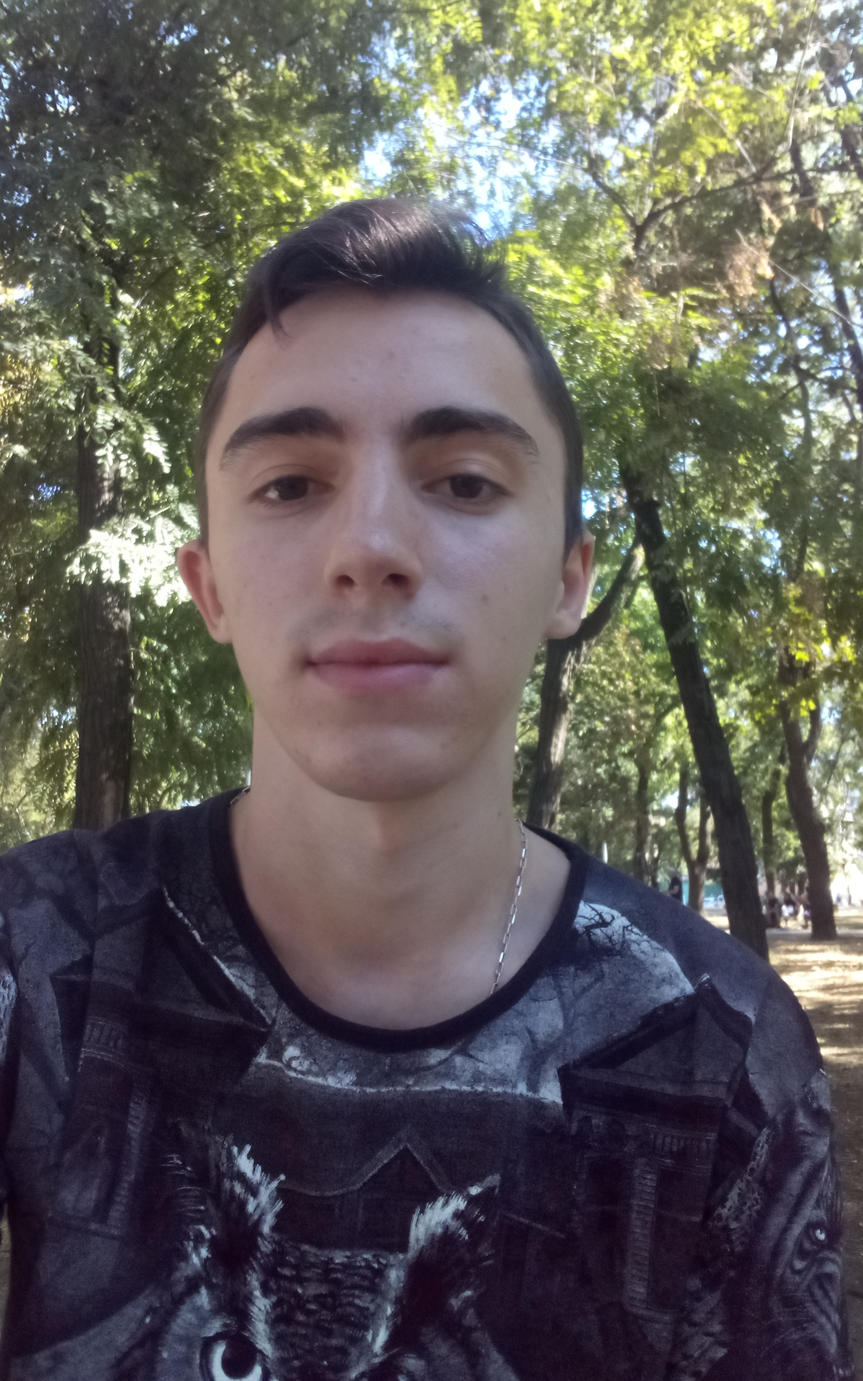
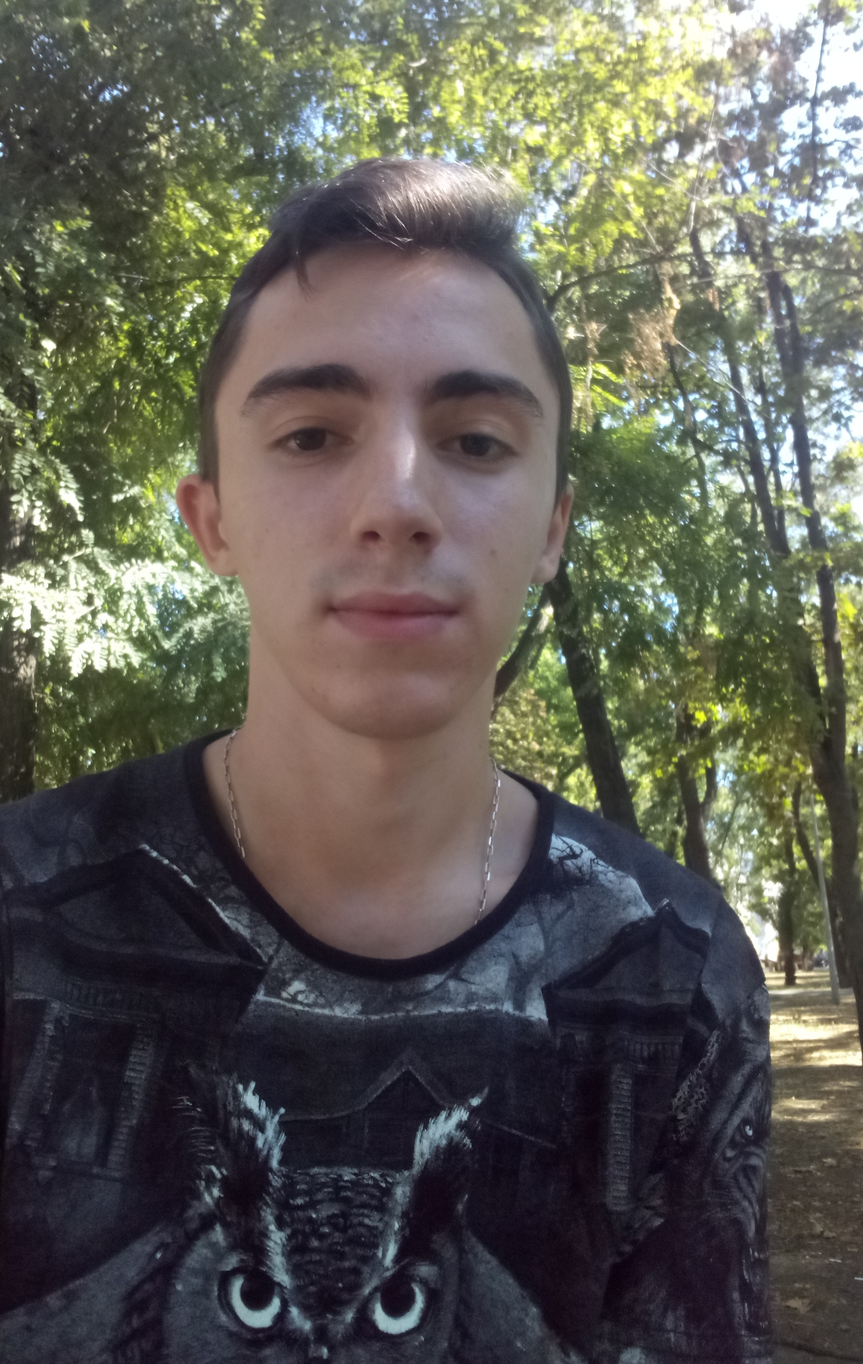
fix about me

diff --git a/dist/css/main.min.css b/dist/css/main.min.css
@@ -1,1 +1,1 @@
-/*! normalize.css v8.0.1 | MIT License | github.com/necolas/normalize.css */html{line-height:1.15;-webkit-text-size-adjust:100%}body{margin:0}main{display:block}h1{font-size:2em;margin:.67em 0}hr{box-sizing:content-box;height:0;overflow:visible}pre{font-family:monospace,monospace;font-size:1em}a{background-color:transparent}abbr[title]{border-bottom:none;text-decoration:underline;-webkit-text-decoration:underline dotted;text-decoration:underline dotted}b,strong{font-weight:bolder}code,kbd,samp{font-family:monospace,monospace;font-size:1em}small{font-size:80%}sub,sup{font-size:75%;line-height:0;position:relative;vertical-align:baseline}sub{bottom:-.25em}sup{top:-.5em}img{border-style:none}button,input,optgroup,select,textarea{font-family:inherit;font-size:100%;line-height:1.15;margin:0}button,input{overflow:visible}button,select{text-transform:none}[type=button],[type=reset],[type=submit],button{-webkit-appearance:button}[type=button]::-moz-focus-inner,[type=reset]::-moz-focus-inner,[type=submit]::-moz-focus-inner,button::-moz-focus-inner{border-style:none;padding:0}[type=button]:-moz-focusring,[type=reset]:-moz-focusring,[type=submit]:-moz-focusring,button:-moz-focusring{outline:1px dotted ButtonText}fieldset{padding:.35em .75em .625em}legend{box-sizing:border-box;color:inherit;display:table;max-width:100%;padding:0;white-space:normal}progress{vertical-align:baseline}textarea{overflow:auto}[type=checkbox],[type=radio]{box-sizing:border-box;padding:0}[type=number]::-webkit-inner-spin-button,[type=number]::-webkit-outer-spin-button{height:auto}[type=search]{-webkit-appearance:textfield;outline-offset:-2px}[type=search]::-webkit-search-decoration{-webkit-appearance:none}::-webkit-file-upload-button{-webkit-appearance:button;font:inherit}details{display:block}summary{display:list-item}template{display:none}[hidden]{display:none}@font-face{font-family:PtSans;font-display:swap;src:local("PtSans-400"),url(../fonts/ptsans.woff2) format("woff2"),url(../fonts/ptsans.woff) format("woff");font-weight:400;font-style:normal}@font-face{font-family:PtSans;font-display:swap;src:local("PtSans-700"),url(../fonts/ptsansbold.woff2) format("woff2"),url(../fonts/ptsansbold.woff) format("woff");font-weight:700;font-style:normal}*{font-family:Dosis,sans-serif;margin:0;padding:0}.container{max-width:1200px;margin:0 auto;padding:0 20px}li{list-style-type:none}.wrap-main{background:#fff}.header{height:100vh;background:url(../img/cover.jpg);background-size:cover;background-attachment:fixed;position:relative}.header__overlay{background-color:rgba(44,62,80,.3);background-image:url(../img/pattern.png);background-repeat:repeat;height:100%;left:0;position:absolute;top:0;width:100%;z-index:0}.header__top{display:flex;justify-content:space-between;align-items:center;width:100%;padding:10px 0}.header__logo{max-width:100px}.header__logo img{width:100%}.header__nav{display:flex}.header__nav li{padding:0 10px}.header__nav a{font-family:Poppins,sans-serif;font-size:14px;position:relative;display:block;cursor:pointer;padding:8px 0;color:#fff;text-decoration:none;text-transform:uppercase;transition:.3s}.header__nav a:hover{color:#000}.header__nav a:before{content:'';width:0%;height:2px;bottom:-2px;background:#000;left:0}.header__nav a:hover::before{position:absolute;content:"";display:block;margin:0 auto;width:100%;height:2px;background-color:#000;transition:opacity .3s ease,width .3s ease;right:0;left:0;pointer-events:none}.header__nav a::after{position:absolute;content:"";display:block;margin:0 auto;width:0;height:2px;background-color:#000;transition:opacity .3s ease,width .3s ease;right:0;left:0;pointer-events:none;margin-top:8px}.header__nav a:hover::after{background:0 0;width:100%;transition:0s}.header__btn{display:none}.header #header__toggle{display:none}.header__main{text-align:center;color:#fff;position:absolute;top:50%;left:50%;transform:translate(-50%,-50%)}.header__main p{font-size:18px;text-align:center;margin:15px 0}.header__text-typing{font-size:45px;font-weight:800;text-align:center;text-transform:uppercase}.header__button{display:flex;justify-content:center;align-items:center;color:#fff;text-decoration:none;width:50px;height:50px;border:1px #fff solid;border-radius:100%;position:absolute;left:50%;bottom:25px;transform:translateX(-50%);cursor:pointer}.about{margin-top:50px}.about__title{font-size:35px;font-weight:800;color:#000}.about__text{font-size:18px;color:#777;line-height:30px}.about__container{display:flex}.about__info{width:100%;display:flex;flex-direction:column}.about__photo{padding:10px;border:1px solid #b4b4b4;overflow:hidden}.about__photo img{width:100%}.about__descr{font-size:15px;color:#777;line-height:30px;font-family:Montserrat,sans-serif;font-weight:300;width:100%;margin-right:30px}.about__list{margin-top:50px;border:1px solid #e0e0e0;border-radius:3px}.about__list li{font-size:16px;color:#333;padding:20px 20px;border-bottom:1px solid #e0e0e0}.about__list span{display:inline-block;min-width:125px}.skills{margin-top:50px;background-color:#f5f4fb}.skills__title{font-size:35px;font-weight:800;text-transform:uppercase;text-align:center;padding-top:25px}.skills__sub-title{display:block;font-size:18px;color:#929292;text-align:center;padding-top:10px}.skills__info{display:flex;margin-top:50px}.skills__items{width:100%}.skills__item{display:flex;margin-bottom:50px;padding-right:5rem}.skills__text h3{font-size:1.25rem;font-weight:700;color:#484848}.skills__text p{font-size:14px;color:#767196;margin-top:10px}.skills .fa{width:100px;font-size:50px;color:#484848}.skills__progress{width:100%}.skills__lang{display:flex;justify-content:center;align-items:center;font-size:12px;font-weight:700;text-transform:uppercase;color:#fff;letter-spacing:2px;height:100%;width:20%;background-color:rgba(0,0,0,.178);position:absolute}.skills__procent{font-size:11px;color:rgba(0,0,0,.4);position:absolute;top:50%;right:10px;transform:translateY(-50%)}#bar{width:100%;height:30px;margin-bottom:10px;background-color:#fff;border-radius:3px;position:relative}#html{height:100%;width:20%;background:#e67e22;border-radius:3px;transition:3s}#css{height:100%;width:20%;background:#3498db;border-radius:3px;transition:3s}#jquery{height:100%;width:20%;background-color:green;border-radius:3px;transition:3s}#photoshop{height:100%;width:20%;background:#4288d0;border-radius:3px;transition:3s}.portfolio{padding:50px 0;background-color:#fff}.portfolio__title{font-size:30px;text-align:center;text-transform:uppercase}.portfolio__sub-title{display:block;font-size:16px;text-align:center;color:#929292;margin-top:10px}.portfolio__galery{display:flex;justify-content:center;flex-wrap:wrap;margin-top:50px}.portfolio__wrap-item{width:350px;height:350px;margin:25px 5px 0;border:1px #b4b4b4 solid;overflow:hidden}.portfolio__item{width:100%;height:100%;transition:.3s;position:relative;box-sizing:border-box}.portfolio__item img{width:100%;min-height:100%}.portfolio__item:hover .portfolio__descr-wrap{display:block;width:100%;height:100%;background:rgba(15,15,15,.753);position:absolute;top:0;transition:.5s}.portfolio__item:hover .portfolio__galery-descr{display:flex;justify-content:center;align-items:center;font-size:20px;text-transform:uppercase;font-weight:700;color:#fff;width:80%;height:80%;position:absolute;top:50%;left:50%;transform:translate(-50%,-50%);box-sizing:border-box}.portfolio__item:hover .portfolio__galery-descr::after,.portfolio__item:hover .portfolio__galery-descr::before{box-sizing:inherit;content:'';position:absolute;width:100%;height:100%}.portfolio__item:hover .portfolio__galery-descr::after,.portfolio__item:hover .portfolio__galery-descr::before{top:0;left:0;height:100%;width:100%;transform-origin:center}.portfolio__item:hover .portfolio__galery-descr::before{border-top:2px solid #fff;border-bottom:2px solid #fff;transform:scale3d(0,1,1)}.portfolio__item:hover .portfolio__galery-descr::after{border-left:2px solid #fff;border-right:2px solid #fff;transform:scale3d(1,0,1)}.portfolio__item:hover .portfolio__galery-descr:hover::after,.portfolio__item:hover .portfolio__galery-descr:hover::before{transform:scale3d(1,1,1);transition:transform .5s}.contacts{margin-bottom:50px}.contacts__wrap{display:flex;justify-content:space-between;width:100%;padding-top:50px}.contacts__item{text-align:center;color:#333;width:100%;margin:0 15px;padding:20px;box-shadow:0 20px 40px rgba(0,0,0,.2)}.contacts__item .fa{font-size:25px;color:#e91e63}.contacts__item p{font-weight:300;margin-top:25px}.contacts__item span{display:block;font-size:16px;font-weight:500;text-transform:uppercase;margin-bottom:10px}.contacts__link{text-decoration:none;color:#000}.contacts__link:hover{text-decoration:underline}.footer{background-color:#263238;padding:50px 0}.footer__networks{display:flex;justify-content:center}.footer__networks li{width:35px;height:35px;margin:0 5px;border:1px solid;border-color:rgba(255,255,255,.2);border-radius:3px;transition:.3s}.footer__networks li:hover{border-color:#fff}.footer__networks a{display:flex;justify-content:center;align-items:center;width:35px;height:35px;opacity:.5;text-decoration:none;transition:.3s}.footer__networks a:hover{opacity:1}.footer__networks img{width:50%}.footer p{font-size:14px;text-align:center;color:#fff;margin-top:20px}@media (max-width:992px){.about__container{flex-direction:column-reverse}.contacts__wrap{justify-content:space-around;flex-wrap:wrap}.contacts__item{width:35%;margin-bottom:30px}.skills__lang{font-size:10px}}@media (max-width:768px){.header__top{justify-content:center;padding:0;position:absolute;z-index:1}.header nav{width:100%;margin-top:-100%}.header__logo{display:none}.header__nav{flex-direction:column;align-items:center;transition:.3s;visibility:hidden}.header__nav a{font-size:25px;margin-top:20px}.header__box{transition-duration:.25s}.header__item{transition-duration:.25s}.header__btn{display:flex;align-items:center;position:absolute;top:20px;right:20px;width:26px;height:26px;cursor:pointer;z-index:1}.header__btn>span,.header__btn>span::after,.header__btn>span::before{display:block;position:absolute;width:100%;height:2px;background-color:#616161;transition-duration:.25s}.header__btn>span::before{content:'';top:-8px}.header__btn>span::after{content:'';top:8px}#header__toggle:checked~.header__btn>span{transform:rotate(45deg)}#header__toggle:checked~.header__btn>span::before{top:0;transform:rotate(0)}#header__toggle:checked~.header__btn>span::after{top:0;transform:rotate(90deg)}#header__toggle:checked~.header__nav{display:flex;justify-content:center;height:100vh;margin-top:100%;background-color:rgba(46,46,46,.959);visibility:visible}.skills{padding-bottom:50px}.skills__info{flex-direction:column}.skills__item{flex-direction:column;align-items:center;text-align:center;padding:0}.skills__item .fa{margin-bottom:20px}}@media (max-width:576px){.contacts__wrap{flex-direction:column;align-items:center}.contacts__item{width:80%;margin-bottom:30px}}#loader,#loader:after,#loader:before{border-radius:50%;width:2.5em;height:2.6em;-webkit-animation-fill-mode:both;animation-fill-mode:both;-webkit-animation:load7 1.8s infinite ease-in-out;animation:load7 1.8s infinite ease-in-out}#loader{color:#fff;font-size:8px;position:absolute;text-indent:-9999em;transform:translateZ(0);-webkit-animation-delay:-.16s;animation-delay:-.16s;top:50%;left:50%;transform:translate(-50%,-50%)}#loader:after,#loader:before{content:'';position:absolute;top:0}#loader:before{left:-3.5em;-webkit-animation-delay:-.32s;animation-delay:-.32s}#loader:after{left:3.5em}@-webkit-keyframes load7{0%,100%,80%{box-shadow:0 2.5em 0 -1.3em}40%{box-shadow:0 2.5em 0 0}}@keyframes load7{0%,100%,80%{box-shadow:0 2.5em 0 -1.3em}40%{box-shadow:0 2.5em 0 0}}
+/*! normalize.css v8.0.1 | MIT License | github.com/necolas/normalize.css */html{line-height:1.15;-webkit-text-size-adjust:100%}body{margin:0}main{display:block}h1{font-size:2em;margin:.67em 0}hr{box-sizing:content-box;height:0;overflow:visible}pre{font-family:monospace,monospace;font-size:1em}a{background-color:transparent}abbr[title]{border-bottom:none;text-decoration:underline;-webkit-text-decoration:underline dotted;text-decoration:underline dotted}b,strong{font-weight:bolder}code,kbd,samp{font-family:monospace,monospace;font-size:1em}small{font-size:80%}sub,sup{font-size:75%;line-height:0;position:relative;vertical-align:baseline}sub{bottom:-.25em}sup{top:-.5em}img{border-style:none}button,input,optgroup,select,textarea{font-family:inherit;font-size:100%;line-height:1.15;margin:0}button,input{overflow:visible}button,select{text-transform:none}[type=button],[type=reset],[type=submit],button{-webkit-appearance:button}[type=button]::-moz-focus-inner,[type=reset]::-moz-focus-inner,[type=submit]::-moz-focus-inner,button::-moz-focus-inner{border-style:none;padding:0}[type=button]:-moz-focusring,[type=reset]:-moz-focusring,[type=submit]:-moz-focusring,button:-moz-focusring{outline:1px dotted ButtonText}fieldset{padding:.35em .75em .625em}legend{box-sizing:border-box;color:inherit;display:table;max-width:100%;padding:0;white-space:normal}progress{vertical-align:baseline}textarea{overflow:auto}[type=checkbox],[type=radio]{box-sizing:border-box;padding:0}[type=number]::-webkit-inner-spin-button,[type=number]::-webkit-outer-spin-button{height:auto}[type=search]{-webkit-appearance:textfield;outline-offset:-2px}[type=search]::-webkit-search-decoration{-webkit-appearance:none}::-webkit-file-upload-button{-webkit-appearance:button;font:inherit}details{display:block}summary{display:list-item}template{display:none}[hidden]{display:none}@font-face{font-family:PtSans;font-display:swap;src:local("PtSans-400"),url(../fonts/ptsans.woff2) format("woff2"),url(../fonts/ptsans.woff) format("woff");font-weight:400;font-style:normal}@font-face{font-family:PtSans;font-display:swap;src:local("PtSans-700"),url(../fonts/ptsansbold.woff2) format("woff2"),url(../fonts/ptsansbold.woff) format("woff");font-weight:700;font-style:normal}*{font-family:Dosis,sans-serif;margin:0;padding:0}.container{max-width:1200px;margin:0 auto;padding:0 20px}li{list-style-type:none}.wrap-main{background:#fff}.header{height:100vh;background:url(../img/cover.jpg);background-size:cover;background-attachment:fixed;position:relative}.header__overlay{background-color:rgba(44,62,80,.3);background-image:url(../img/pattern.png);background-repeat:repeat;height:100%;left:0;position:absolute;top:0;width:100%;z-index:0}.header__top{display:flex;justify-content:space-between;align-items:center;width:100%;padding:10px 0}.header__logo{max-width:100px}.header__logo img{width:100%}.header__nav{display:flex}.header__nav li{padding:0 10px}.header__nav a{font-family:Poppins,sans-serif;font-size:14px;position:relative;display:block;cursor:pointer;padding:8px 0;color:#fff;text-decoration:none;text-transform:uppercase;transition:.3s}.header__nav a:hover{color:#000}.header__nav a:before{content:'';width:0%;height:2px;bottom:-2px;background:#000;left:0}.header__nav a:hover::before{position:absolute;content:"";display:block;margin:0 auto;width:100%;height:2px;background-color:#000;transition:opacity .3s ease,width .3s ease;right:0;left:0;pointer-events:none}.header__nav a::after{position:absolute;content:"";display:block;margin:0 auto;width:0;height:2px;background-color:#000;transition:opacity .3s ease,width .3s ease;right:0;left:0;pointer-events:none;margin-top:8px}.header__nav a:hover::after{background:0 0;width:100%;transition:0s}.header__btn{display:none}.header #header__toggle{display:none}.header__main{text-align:center;color:#fff;position:absolute;top:50%;left:50%;transform:translate(-50%,-50%)}.header__main p{font-size:18px;text-align:center;margin:15px 0}.header__text-typing{font-size:45px;font-weight:800;text-align:center;text-transform:uppercase}.header__button{display:flex;justify-content:center;align-items:center;color:#fff;text-decoration:none;width:50px;height:50px;border:1px #fff solid;border-radius:100%;position:absolute;left:50%;bottom:25px;transform:translateX(-50%);cursor:pointer}.about{margin-top:50px}.about__title{font-size:35px;font-weight:800;color:#000}.about__text{font-size:18px;color:#777;line-height:30px}.about__container{display:flex}.about__info{width:100%;display:flex;flex-direction:column}.about__photo{display:flex;overflow:hidden}.about__photo img{width:60%;padding:10px;margin:0 auto;border:1px solid #b4b4b4}.about__descr{font-size:15px;color:#777;line-height:30px;font-family:Montserrat,sans-serif;font-weight:300;width:100%;margin-right:30px}.about__list{margin-top:50px;border:1px solid #e0e0e0;border-radius:3px}.about__list li{font-size:16px;color:#333;padding:20px 20px;border-bottom:1px solid #e0e0e0}.about__list span{display:inline-block;min-width:125px}.skills{margin-top:50px;background-color:#f5f4fb}.skills__title{font-size:35px;font-weight:800;text-transform:uppercase;text-align:center;padding-top:25px}.skills__sub-title{display:block;font-size:18px;color:#929292;text-align:center;padding-top:10px}.skills__info{display:flex;margin-top:50px}.skills__items{width:100%}.skills__item{display:flex;margin-bottom:50px;padding-right:5rem}.skills__text h3{font-size:1.25rem;font-weight:700;color:#484848}.skills__text p{font-size:14px;color:#767196;margin-top:10px}.skills .fa{width:100px;font-size:50px;color:#484848}.skills__progress{width:100%}.skills__lang{display:flex;justify-content:center;align-items:center;font-size:12px;font-weight:700;text-transform:uppercase;color:#fff;letter-spacing:2px;height:100%;width:20%;background-color:rgba(0,0,0,.178);position:absolute}.skills__procent{font-size:11px;color:rgba(0,0,0,.4);position:absolute;top:50%;right:10px;transform:translateY(-50%)}#bar{width:100%;height:30px;margin-bottom:10px;background-color:#fff;border-radius:3px;position:relative}#html{height:100%;width:20%;background:#e67e22;border-radius:3px;transition:3s}#css{height:100%;width:20%;background:#3498db;border-radius:3px;transition:3s}#jquery{height:100%;width:20%;background-color:green;border-radius:3px;transition:3s}#photoshop{height:100%;width:20%;background:#4288d0;border-radius:3px;transition:3s}.portfolio{padding:50px 0;background-color:#fff}.portfolio__title{font-size:30px;text-align:center;text-transform:uppercase}.portfolio__sub-title{display:block;font-size:16px;text-align:center;color:#929292;margin-top:10px}.portfolio__galery{display:flex;justify-content:center;flex-wrap:wrap;margin-top:50px}.portfolio__wrap-item{width:350px;height:350px;margin:25px 5px 0;border:1px #b4b4b4 solid;overflow:hidden}.portfolio__item{width:100%;height:100%;transition:.3s;position:relative;box-sizing:border-box}.portfolio__item img{width:100%;min-height:100%}.portfolio__item:hover .portfolio__descr-wrap{display:block;width:100%;height:100%;background:rgba(15,15,15,.753);position:absolute;top:0;transition:.5s}.portfolio__item:hover .portfolio__galery-descr{display:flex;justify-content:center;align-items:center;font-size:20px;text-transform:uppercase;font-weight:700;color:#fff;width:80%;height:80%;position:absolute;top:50%;left:50%;transform:translate(-50%,-50%);box-sizing:border-box}.portfolio__item:hover .portfolio__galery-descr::after,.portfolio__item:hover .portfolio__galery-descr::before{box-sizing:inherit;content:'';position:absolute;width:100%;height:100%}.portfolio__item:hover .portfolio__galery-descr::after,.portfolio__item:hover .portfolio__galery-descr::before{top:0;left:0;height:100%;width:100%;transform-origin:center}.portfolio__item:hover .portfolio__galery-descr::before{border-top:2px solid #fff;border-bottom:2px solid #fff;transform:scale3d(0,1,1)}.portfolio__item:hover .portfolio__galery-descr::after{border-left:2px solid #fff;border-right:2px solid #fff;transform:scale3d(1,0,1)}.portfolio__item:hover .portfolio__galery-descr:hover::after,.portfolio__item:hover .portfolio__galery-descr:hover::before{transform:scale3d(1,1,1);transition:transform .5s}.contacts{margin-bottom:50px}.contacts__wrap{display:flex;justify-content:space-between;width:100%;padding-top:50px}.contacts__item{text-align:center;color:#333;width:100%;margin:0 15px;padding:20px;box-shadow:0 20px 40px rgba(0,0,0,.2)}.contacts__item .fa{font-size:25px;color:#e91e63}.contacts__item p{font-weight:300;margin-top:25px}.contacts__item span{display:block;font-size:16px;font-weight:500;text-transform:uppercase;margin-bottom:10px}.contacts__link{text-decoration:none;color:#000}.contacts__link:hover{text-decoration:underline}.footer{background-color:#263238;padding:50px 0}.footer__networks{display:flex;justify-content:center}.footer__networks li{width:35px;height:35px;margin:0 5px;border:1px solid;border-color:rgba(255,255,255,.2);border-radius:3px;transition:.3s}.footer__networks li:hover{border-color:#fff}.footer__networks a{display:flex;justify-content:center;align-items:center;width:35px;height:35px;opacity:.5;text-decoration:none;transition:.3s}.footer__networks a:hover{opacity:1}.footer__networks img{width:50%}.footer p{font-size:14px;text-align:center;color:#fff;margin-top:20px}@media (max-width:992px){.about__container{flex-direction:column-reverse}.contacts__wrap{justify-content:space-around;flex-wrap:wrap}.contacts__item{width:35%;margin-bottom:30px}.skills__lang{font-size:10px}}@media (max-width:768px){.header__top{justify-content:center;padding:0;position:absolute;z-index:1}.header nav{width:100%;margin-top:-100%}.header__logo{display:none}.header__nav{flex-direction:column;align-items:center;transition:.3s;visibility:hidden}.header__nav a{font-size:25px;margin-top:20px}.header__box{transition-duration:.25s}.header__item{transition-duration:.25s}.header__btn{display:flex;align-items:center;position:absolute;top:20px;right:20px;width:26px;height:26px;cursor:pointer;z-index:1}.header__btn>span,.header__btn>span::after,.header__btn>span::before{display:block;position:absolute;width:100%;height:2px;background-color:#616161;transition-duration:.25s}.header__btn>span::before{content:'';top:-8px}.header__btn>span::after{content:'';top:8px}#header__toggle:checked~.header__btn>span{transform:rotate(45deg)}#header__toggle:checked~.header__btn>span::before{top:0;transform:rotate(0)}#header__toggle:checked~.header__btn>span::after{top:0;transform:rotate(90deg)}#header__toggle:checked~.header__nav{display:flex;justify-content:center;height:100vh;margin-top:100%;background-color:rgba(46,46,46,.959);visibility:visible}.skills{padding-bottom:50px}.skills__info{flex-direction:column}.skills__item{flex-direction:column;align-items:center;text-align:center;padding:0}.skills__item .fa{margin-bottom:20px}}@media (max-width:576px){.contacts__wrap{flex-direction:column;align-items:center}.contacts__item{width:80%;margin-bottom:30px}}#loader,#loader:after,#loader:before{border-radius:50%;width:2.5em;height:2.6em;-webkit-animation-fill-mode:both;animation-fill-mode:both;-webkit-animation:load7 1.8s infinite ease-in-out;animation:load7 1.8s infinite ease-in-out}#loader{color:#fff;font-size:8px;position:absolute;text-indent:-9999em;transform:translateZ(0);-webkit-animation-delay:-.16s;animation-delay:-.16s;top:50%;left:50%;transform:translate(-50%,-50%)}#loader:after,#loader:before{content:'';position:absolute;top:0}#loader:before{left:-3.5em;-webkit-animation-delay:-.32s;animation-delay:-.32s}#loader:after{left:3.5em}@-webkit-keyframes load7{0%,100%,80%{box-shadow:0 2.5em 0 -1.3em}40%{box-shadow:0 2.5em 0 0}}@keyframes load7{0%,100%,80%{box-shadow:0 2.5em 0 -1.3em}40%{box-shadow:0 2.5em 0 0}}

diff --git a/dist/index.html b/dist/index.html
@@ -1,4 +1,4 @@
-<!DOCTYPE html><html lang="en"><head><meta charset="UTF-8"><meta name="viewport" content="width=device-width,initial-scale=1"><link href="https://fonts.googleapis.com/css2?family=Dosis:wght@300;400;500;600&display=swap" rel="stylesheet"><link rel="stylesheet" href="https://use.fontawesome.com/releases/v5.6.1/css/all.css" integrity="sha384-gfdkjb5BdAXd+lj+gudLWI+BXq4IuLW5IT+brZEZsLFm++aCMlF1V92rMkPaX4PP" crossorigin="anonymous"><link rel="stylesheet" href="css/animate.css"><link rel="stylesheet" href="css/main.min.css"><title>Portfolio</title></head><body onload="myFunction()"><!-- <div id="loader"></div> --><div class="wrap-main" id="myDiv"><header class="header"><div class="header__overlay"></div><div class="header__top"><a class="header__logo" href="#"><img src="img/logo.png" alt="Logo"></a><nav><input id="header__toggle" type="checkbox"> <label class="header__btn" for="header__toggle"><span></span></label><ul class="header__nav"><li><a href="#">Home</a></li><li><a class="scroll-about" href="#scroll-about">About Me</a></li><li><a class="scroll-skills" href="#scroll-skills">Skills</a></li><li><a class="scroll-porfolio" href="#scroll-porfolio">Portfolio</a></li><li><a class="scroll-contacts" href="#scroll-contacts">Contacts</a></li></ul></nav></div><div class="header__main"><p>Hello, my name is Valeriy Kovalenko and I am</p><span class="header__text-typing">WEB DEVELOPER</span><p>creating modern and responsive Web Application</p></div><a class="header__button" href="#scroll-about"><i class="fa fa-arrow-down" aria-hidden="true"></i></a></header><section class="about container" id="scroll-about"><div class="about__container"><div class="about__descr wow fadeInLeft"><h1 class="about__title">ABOUT ME</h1><p>I am Valeriy Kovalenko. Html Coder.<br><br>In my experience, there are only personal projects, a couple of them are on the git hub. I always strive to learn from a practical example, working with real problems, so I always tried to learn something by applying it in practice.<br><br>HTML5, HTML, CSS, Bootstrap, OOP, Sass, Gulp, Flexbox, Responsive, fluid and cross-browser layout.<br><br>The ability to self-organize at the right time, regardless of the situation, to complete everything on time and do it as best as possible.<br><br>I would like to become a member of a friendly team that will always help in a difficult situation and will work like a really team, supporting each other and participating in the project together.</p><ul class="about__list"><li><span>Name :</span> Valeriy Kovalenko</li><li><span>Date Of Birth :</span> 20 June 1999</li><li><span>Address :</span> Odessa, Ukraine</li><li><span>Email :</span> valeriykovaelenko18@gmail.com</li><li><span>Phone :</span> +38 (067) 2633 486</li></ul></div><div class="about__info wow fadeInRight"><div class="about__photo"><img src="img/photo.jpg" alt="photo"></div></div></div></section><section class="skills" id="scroll-skills"><div class="skills__inner container"><h2 class="skills__title wow fadeInUp">My Skills</h2><span class="skills__sub-title wow fadeInUp">I Like To Craft Beautiful And Scalable Web Products</span><div class="skills__info"><div class="skills__items"><div class="skills__item"><i class="fa fa-4x fa-paint-brush"></i><div class="skills__text"><h3>Website compliance with web standards</h3><p>Creation of sites in compliance with web standards</p></div></div><div class="skills__item"><i class="fa fa-4x fa-tablet"></i><div class="skills__text"><h3>Always Responsive</h3><p>A responsive design makes your website accessible to all users, regardless of their device.</p></div></div><div class="skills__item"><i class="fa fa-4x fa-code"></i><div class="skills__text"><h3>Technology</h3><p>Combined all the latest technologies to a progressive website.</p></div></div></div><div class="skills__progress"><div id="bar"><div class="skills__lang">html5</div><div class="skills__procent">90%</div><div id="html"></div></div><div id="bar"><div class="skills__lang">css</div><div class="skills__procent">80%</div><div id="css"></div></div><div id="bar"><div class="skills__lang">jquery</div><div class="skills__procent">30%</div><div id="jquery"></div></div><div id="bar"><div class="skills__lang">Photoshop</div><div class="skills__procent">70%</div><div id="photoshop"></div></div></div></div></div></section><section class="portfolio" id="scroll-porfolio"><div class="portfolio-inner container"><h2 class="portfolio__title wow fadeInUp">My works</h2><span class="portfolio__sub-title wow fadeInUp">Here are a few projects I've worked on recently.</span><div class="portfolio__galery"><div class="portfolio__wrap-item wow fadeInUp" data-wow-duration="0.5s" data-wow-delay="0.1s"><div class="portfolio__item"><img src="img/Galery/technomart-index.jpg" alt="technomart"> <a href="works/TehnoMart/dist/index.html" class="portfolio__descr-wrap"><div class="portfolio__galery-descr">technomart</div></a></div></div><div class="portfolio__wrap-item wow fadeInUp" data-wow-duration="0.5s" data-wow-delay="0.1s"><div class="portfolio__item"><img src="img/Galery/runsmart.png" alt="technomart"> <a href="works/RunSmart/dist/index.html" class="portfolio__descr-wrap"><div class="portfolio__galery-descr">RunSmart</div></a></div></div><div class="portfolio__wrap-item wow fadeInUp" data-wow-duration="1s" data-wow-delay="0.2s"><div class="portfolio__item"><img src="img/Galery/sedona-index.jpg" alt="sedona"> <a href="works/Sedona/dist/index.html" class="portfolio__descr-wrap"><div class="portfolio__galery-descr">sedona</div></a></div></div><div class="portfolio__wrap-item wow fadeInUp" data-wow-duration="1.5s" data-wow-delay="0.3s"><div class="portfolio__item"><img src="img/Galery/nerds-index2.jpg" alt="nerds"> <a href="works/Nerds/dist/index.html" class="portfolio__descr-wrap"><div class="portfolio__galery-descr">nerds</div></a></div></div><!-- <div class="portfolio__wrap-item wow fadeInUp" data-wow-duration="0.5s" data-wow-delay="0.1s">
+<!DOCTYPE html><html lang="en"><head><meta charset="UTF-8"><meta name="viewport" content="width=device-width,initial-scale=1"><link href="https://fonts.googleapis.com/css2?family=Dosis:wght@300;400;500;600&display=swap" rel="stylesheet"><link rel="stylesheet" href="https://use.fontawesome.com/releases/v5.6.1/css/all.css" integrity="sha384-gfdkjb5BdAXd+lj+gudLWI+BXq4IuLW5IT+brZEZsLFm++aCMlF1V92rMkPaX4PP" crossorigin="anonymous"><link rel="stylesheet" href="css/animate.css"><link rel="stylesheet" href="css/main.min.css"><title>Portfolio</title></head><body onload="myFunction()"><!-- <div id="loader"></div> --><div class="wrap-main" id="myDiv"><header class="header"><div class="header__overlay"></div><div class="header__top"><a class="header__logo" href="#"><img src="img/logo.png" alt="Logo"></a><nav><input id="header__toggle" type="checkbox"> <label class="header__btn" for="header__toggle"><span></span></label><ul class="header__nav"><li><a href="#">Home</a></li><li><a class="scroll-about" href="#scroll-about">About Me</a></li><li><a class="scroll-skills" href="#scroll-skills">Skills</a></li><li><a class="scroll-porfolio" href="#scroll-porfolio">Portfolio</a></li><li><a class="scroll-contacts" href="#scroll-contacts">Contacts</a></li></ul></nav></div><div class="header__main"><p>Hello, my name is Valeriy Kovalenko and I am</p><span class="header__text-typing">WEB DEVELOPER</span><p>creating modern and responsive Web Application</p></div><a class="header__button" href="#scroll-about"><i class="fa fa-arrow-down" aria-hidden="true"></i></a></header><section class="about container" id="scroll-about"><div class="about__container"><div class="about__descr wow fadeInLeft"><h1 class="about__title">ABOUT ME</h1><p>I am Valeriy Kovalenko. Html Coder.<br><br>In my experience, there are only personal projects, a couple of them are on the git hub. I always strive to learn from a practical example, working with real problems, so I always tried to learn something by applying it in practice.<br><br>HTML5, HTML, CSS, Bootstrap, OOP, Sass, Gulp, Flexbox, Responsive, fluid and cross-browser layout.<br><br>The ability to self-organize at the right time, regardless of the situation, to complete everything on time and do it as best as possible.<br><br>I would like to become a member of a friendly team that will always help in a difficult situation and will work like a really team, supporting each other and participating in the project together.</p><ul class="about__list"><li><span>Name :</span> Valeriy Kovalenko</li><li><span>Date Of Birth :</span> 20 June 1999</li><li><span>Address :</span> Odessa, Ukraine</li><li><span>Email :</span> valeriykovaelenko18@gmail.com</li><li><span>Phone :</span> +38 (067) 2633 486</li></ul></div><div class="about__info wow fadeInRight"><div class="about__photo"><img src="img/photo.jpg" alt="photo"></div></div></div></section><section class="skills" id="scroll-skills"><div class="skills__inner container"><h2 class="skills__title wow fadeInUp">My Skills</h2><span class="skills__sub-title wow fadeInUp">I Like To Craft Beautiful And Scalable Web Products</span><div class="skills__info"><div class="skills__items"><div class="skills__item"><i class="fa fa-4x fa-paint-brush"></i><div class="skills__text"><h3>Website compliance with web standards</h3><p>Creation of sites in compliance with web standards</p></div></div><div class="skills__item"><i class="fa fa-4x fa-tablet"></i><div class="skills__text"><h3>Always Responsive</h3><p>A responsive design makes your website accessible to all users, regardless of their device.</p></div></div><div class="skills__item"><i class="fa fa-4x fa-code"></i><div class="skills__text"><h3>Technology</h3><p>Combined all the latest technologies to a progressive website.</p></div></div></div><div class="skills__progress"><div id="bar"><div class="skills__lang">html5</div><div class="skills__procent">90%</div><div id="html"></div></div><div id="bar"><div class="skills__lang">css</div><div class="skills__procent">80%</div><div id="css"></div></div><div id="bar"><div class="skills__lang">jquery</div><div class="skills__procent">30%</div><div id="jquery"></div></div><div id="bar"><div class="skills__lang">Photoshop</div><div class="skills__procent">70%</div><div id="photoshop"></div></div></div></div></div></section><section class="portfolio" id="scroll-porfolio"><div class="portfolio-inner container"><h2 class="portfolio__title wow fadeInUp">My works</h2><span class="portfolio__sub-title wow fadeInUp">Here are a few projects I've worked on recently.</span><div class="portfolio__galery"><div class="portfolio__wrap-item wow fadeInUp" data-wow-duration="0.5s" data-wow-delay="0.1s"><div class="portfolio__item"><img src="img/Galery/technomart-index.jpg" alt="technomart"> <a href="works/TehnoMart/dist/index.html" class="portfolio__descr-wrap"><div class="portfolio__galery-descr">technomart</div></a></div></div><div class="portfolio__wrap-item wow fadeInUp" data-wow-duration="0.5s" data-wow-delay="0.1s"><div class="portfolio__item"><img src="img/Galery/runsmart.png" alt="technomart"> <a href="works/RunSmart/index.html" class="portfolio__descr-wrap"><div class="portfolio__galery-descr">RunSmart</div></a></div></div><div class="portfolio__wrap-item wow fadeInUp" data-wow-duration="1s" data-wow-delay="0.2s"><div class="portfolio__item"><img src="img/Galery/sedona-index.jpg" alt="sedona"> <a href="works/Sedona/dist/index.html" class="portfolio__descr-wrap"><div class="portfolio__galery-descr">sedona</div></a></div></div><div class="portfolio__wrap-item wow fadeInUp" data-wow-duration="1.5s" data-wow-delay="0.3s"><div class="portfolio__item"><img src="img/Galery/nerds-index2.jpg" alt="nerds"> <a href="works/Nerds/dist/index.html" class="portfolio__descr-wrap"><div class="portfolio__galery-descr">nerds</div></a></div></div><!-- <div class="portfolio__wrap-item wow fadeInUp" data-wow-duration="0.5s" data-wow-delay="0.1s">
                         <div class="portfolio__item">
                             <a href="#"><img src="img/Galery/device-index.jpg" alt="device"></a>
                             <div class="portfolio__galery-descr">device</div>

diff --git a/src/index.html b/src/index.html
@@ -155,7 +155,7 @@
                     <div class="portfolio__wrap-item wow fadeInUp" data-wow-duration="0.5s" data-wow-delay="0.1s">
                         <div class="portfolio__item">
                             <img src="img/Galery/runsmart.png" alt="technomart">
-                            <a href="works/RunSmart/dist/index.html" class="portfolio__descr-wrap">
+                            <a href="works/RunSmart/index.html" class="portfolio__descr-wrap">
                                 <div class="portfolio__galery-descr">RunSmart</div>
                             </a>
                         </div>

diff --git a/src/sass/blocks/_about.scss b/src/sass/blocks/_about.scss
@@ -19,13 +19,15 @@
         flex-direction: column;
     }
     &__photo {
-        padding: 10px;
-
-        border: 1px solid #b4b4b4;
+        display: flex;
 
         overflow: hidden;
         img {
-            width: 100%;
+            width: 60%;
+            padding: 10px;
+            margin: 0 auto;
+
+            border: 1px solid #b4b4b4;
         }
     }
     &__descr {
